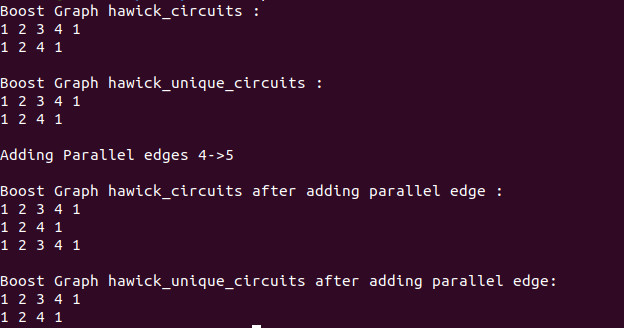
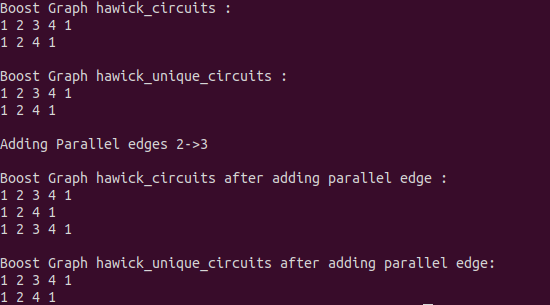
minor changes

diff --git a/BoostExample_2.cpp b/BoostExample_2.cpp
@@ -17,7 +17,7 @@ struct circuit_printer
             return;
 
         
-        // Iterate over path printing each vertex that forms the cycle.
+        // Iterate over path printing each vertex that forms the circuit.
         typename Path::const_iterator i=p.begin(), before_end = p.end();
 
         for (; i != before_end; ++i)
@@ -58,7 +58,7 @@ int main(int argc, char const *argv[])
     boost::hawick_unique_circuits(G, visitor);
 
 
-    std::cout<<"\nAdding Parallel edges 4->5 \n";
+    std::cout<<"\nAdding Parallel edges 2->3 \n";
     add_edge(2,3,G);
 
     std::cout<<"\nBoost Graph hawick_circuits after adding parallel edge : \n";

diff --git a/BoostExample_1.cpp b/BoostExample_1.cpp
@@ -16,7 +16,7 @@ struct circuit_printer
             return;
 
 
-        // Iterate over path printing each vertex that forms the cycle.
+        // Iterate over path printing each vertex that forms the circuit.
         typename Path::const_iterator i=p.begin(), before_end = p.end();
 
         for (; i != before_end; ++i)
